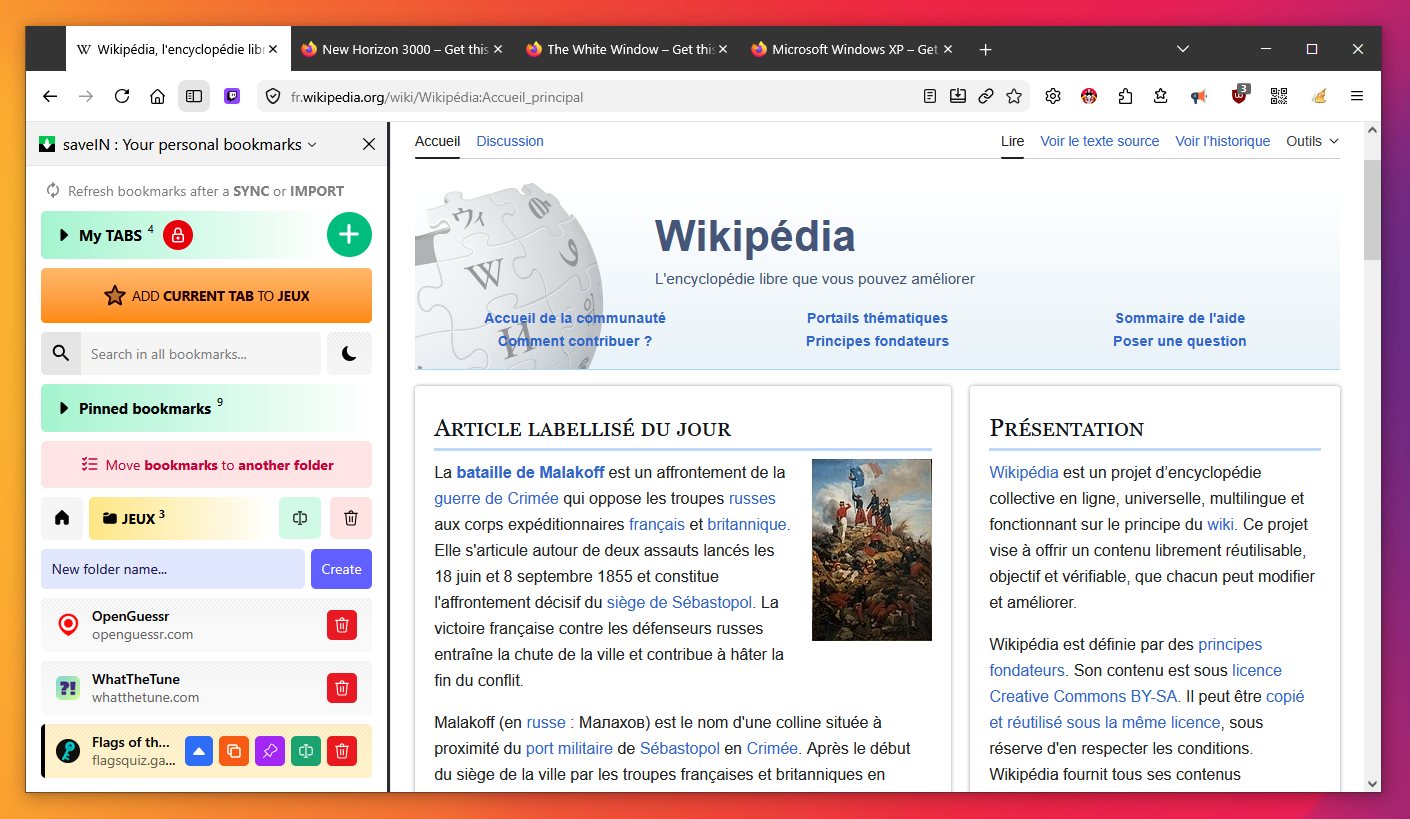
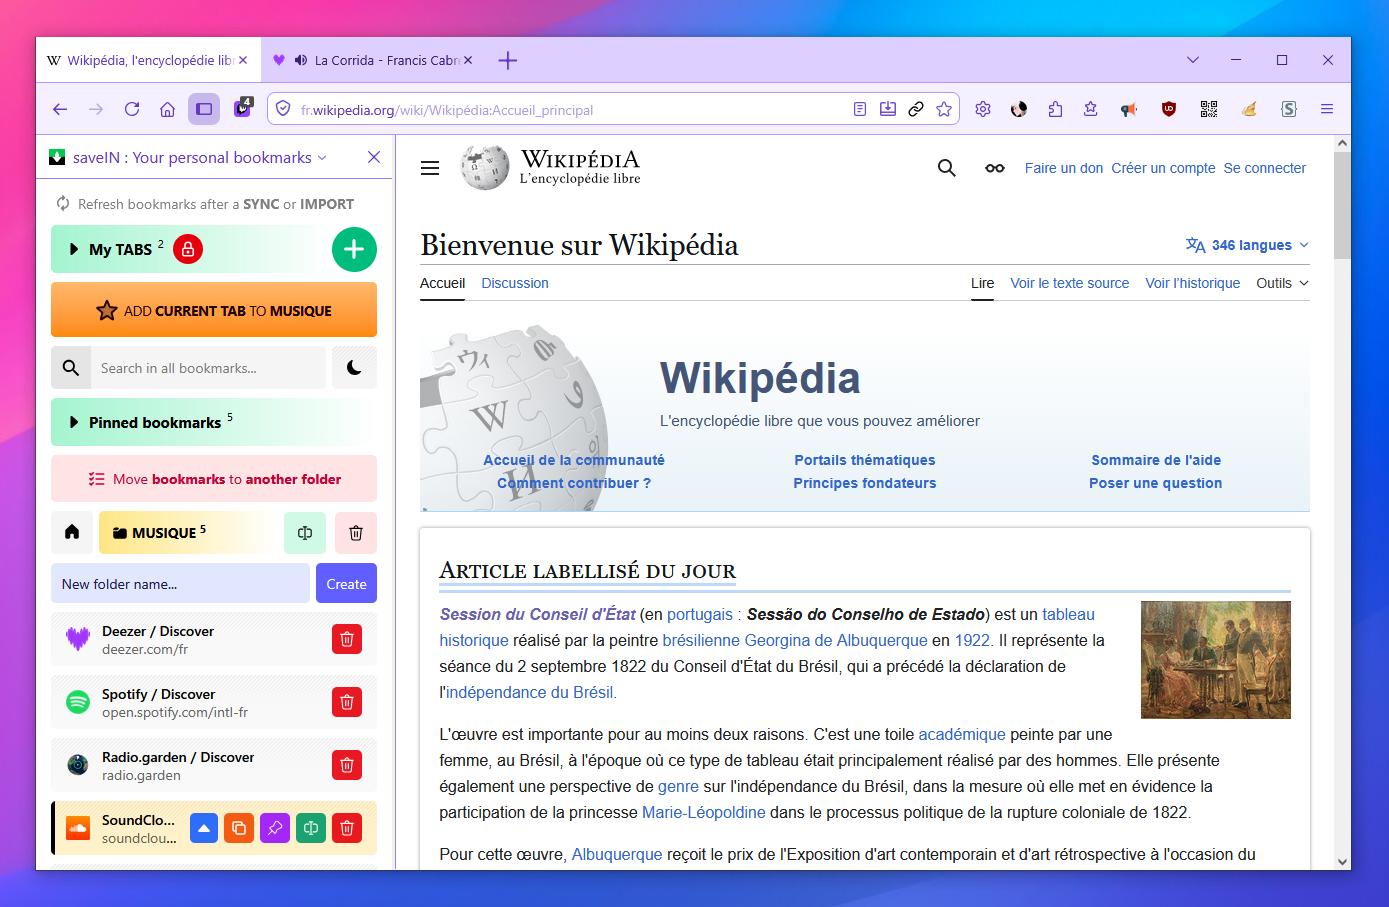
Update

diff --git a/chrome/userChrome.css b/chrome/userChrome.css
@@ -1,7 +1,7 @@
-/* Full tabs, no radius for Firefox */
 .tab-background {
   border-radius: 0 !important;
   margin: 0!important;
+  outline: none;
 }
 #TabsToolbar {
   border-bottom: none!important;
@@ -36,4 +36,16 @@
 }
 #PersonalToolbar {
   padding-bottom: 5px!important;
+}
+#tabs-newtab-button, #vertical-tabs-newtab-button {
+  padding: 0;
+  margin: 0;
+}
+.toolbarbutton-icon {
+  height: 100%;
+  width: 45px;
+  border-radius: 0;
+}
+.titlebar-spacer {
+  width: 0px;
 }